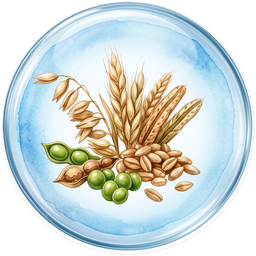
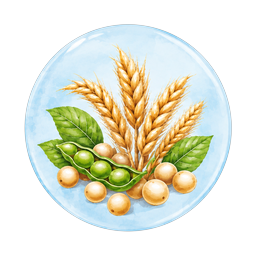
Оновити іконки popped/fiber і додати підказку назви при наведенні.

diff --git a/static/css/product-filters.css b/static/css/product-filters.css
@@ -6,6 +6,8 @@
   align-items: center;
   gap: 12px 18px;
   margin-bottom: 18px;
+  overflow: visible;
+  padding-top: 2px;
 }
 
 .product-group__badges {
@@ -16,9 +18,16 @@
   margin: 0;
   padding: 0;
   list-style: none;
+  overflow: visible;
+}
+
+.product-group__badges > li {
+  position: relative;
+  overflow: visible;
 }
 
 .product-group__badge {
+  position: relative;
   display: inline-flex;
   align-items: center;
   justify-content: center;
@@ -33,6 +42,55 @@
     transform 0.22s ease,
     background 0.22s ease,
     box-shadow 0.22s ease;
+}
+
+.product-group__badge[data-tooltip]::after {
+  content: attr(data-tooltip);
+  position: absolute;
+  left: 50%;
+  bottom: calc(100% + 8px);
+  z-index: 5;
+  max-width: min(220px, 70vw);
+  padding: 6px 10px;
+  border-radius: 8px;
+  background: rgba(28, 36, 48, 0.92);
+  color: #fff;
+  font-family: var(--font-sans, system-ui, sans-serif);
+  font-size: 0.75rem;
+  font-weight: 500;
+  line-height: 1.25;
+  letter-spacing: 0.01em;
+  text-align: center;
+  white-space: normal;
+  pointer-events: none;
+  opacity: 0;
+  visibility: hidden;
+  transform: translateX(-50%) translateY(4px);
+  transition:
+    opacity 0.18s ease,
+    transform 0.18s ease,
+    visibility 0.18s ease;
+  -webkit-backdrop-filter: blur(6px);
+  backdrop-filter: blur(6px);
+}
+
+.product-group__badge[data-tooltip]::before {
+  content: "";
+  position: absolute;
+  left: 50%;
+  bottom: calc(100% + 2px);
+  z-index: 5;
+  width: 8px;
+  height: 8px;
+  background: rgba(28, 36, 48, 0.92);
+  pointer-events: none;
+  opacity: 0;
+  visibility: hidden;
+  transform: translateX(-50%) translateY(4px) rotate(45deg);
+  transition:
+    opacity 0.18s ease,
+    transform 0.18s ease,
+    visibility 0.18s ease;
 }
 
 .product-group__badge img {
@@ -61,11 +119,33 @@
     transform: translateY(-2px) scale(1.08);
     box-shadow: 0 10px 20px -14px rgba(20, 36, 64, 0.55);
   }
+
+  .product-group__badge[data-tooltip]:hover::after,
+  .product-group__badge[data-tooltip]:hover::before {
+    opacity: 1;
+    visibility: visible;
+    transform: translateX(-50%) translateY(0);
+  }
+
+  .product-group__badge[data-tooltip]:hover::before {
+    transform: translateX(-50%) translateY(0) rotate(45deg);
+  }
 }
 
 .product-group__badge:focus-visible {
   outline: 2px solid color-mix(in srgb, var(--c-green, #2f7d4a) 70%, transparent);
   outline-offset: 2px;
+}
+
+.product-group__badge[data-tooltip]:focus-visible::after,
+.product-group__badge[data-tooltip]:focus-visible::before {
+  opacity: 1;
+  visibility: visible;
+  transform: translateX(-50%) translateY(0);
+}
+
+.product-group__badge[data-tooltip]:focus-visible::before {
+  transform: translateX(-50%) translateY(0) rotate(45deg);
 }
 
 @media (max-width: 767px) {
@@ -82,6 +162,13 @@
   .product-group__badge img {
     width: 42px;
     height: 42px;
+  }
+
+  .product-group__badge[data-tooltip]::after {
+    font-size: 0.6875rem;
+    padding: 5px 8px;
+    max-width: min(180px, 78vw);
+    white-space: normal;
   }
 }
 
@@ -111,6 +198,11 @@
 
 @media (prefers-reduced-motion: reduce) {
   .product-group__badge {
+    transition: none;
+  }
+
+  .product-group__badge[data-tooltip]::after,
+  .product-group__badge[data-tooltip]::before {
     transition: none;
   }
 

diff --git a/templates/partials/catalog_results.html b/templates/partials/catalog_results.html
@@ -47,9 +47,14 @@
             {% for item in group.badges %}
               {% filter_icon_url item as icon_url %}
               <li>
-                <span class="product-group__badge" title="{{ item.name }}">
+                <span
+                  class="product-group__badge"
+                  data-tooltip="{{ item.name }}"
+                  aria-label="{{ item.name }}"
+                  tabindex="0"
+                >
                   {% if icon_url %}
-                    <img src="{{ icon_url }}" alt="{{ item.name }}" width="72" height="72" loading="lazy" decoding="async">
+                    <img src="{{ icon_url }}" alt="" width="72" height="72" loading="lazy" decoding="async">
                   {% else %}
                     <span class="product-group__badge-fallback">{{ item.name }}</span>
                   {% endif %}

diff --git a/apps/catalog/tests_views.py b/apps/catalog/tests_views.py
@@ -219,4 +219,5 @@ class CatalogSnackBadgeTests(TestCase):
         self.assertIn('popped-never-fried', html)
         self.assertIn('less-fat-60', html)
         self.assertIn('product-group__badge', html)
+        self.assertIn('data-tooltip=', html)
         self.assertNotIn('id="catalog-brand"', html)
